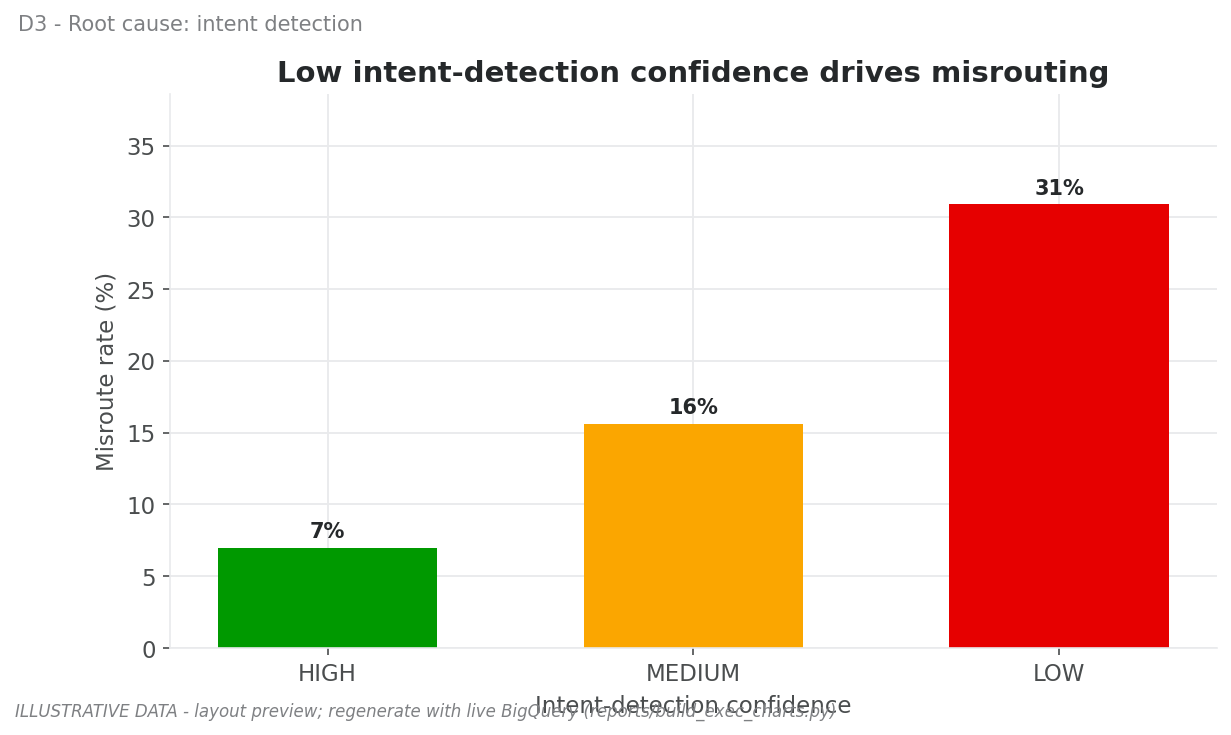
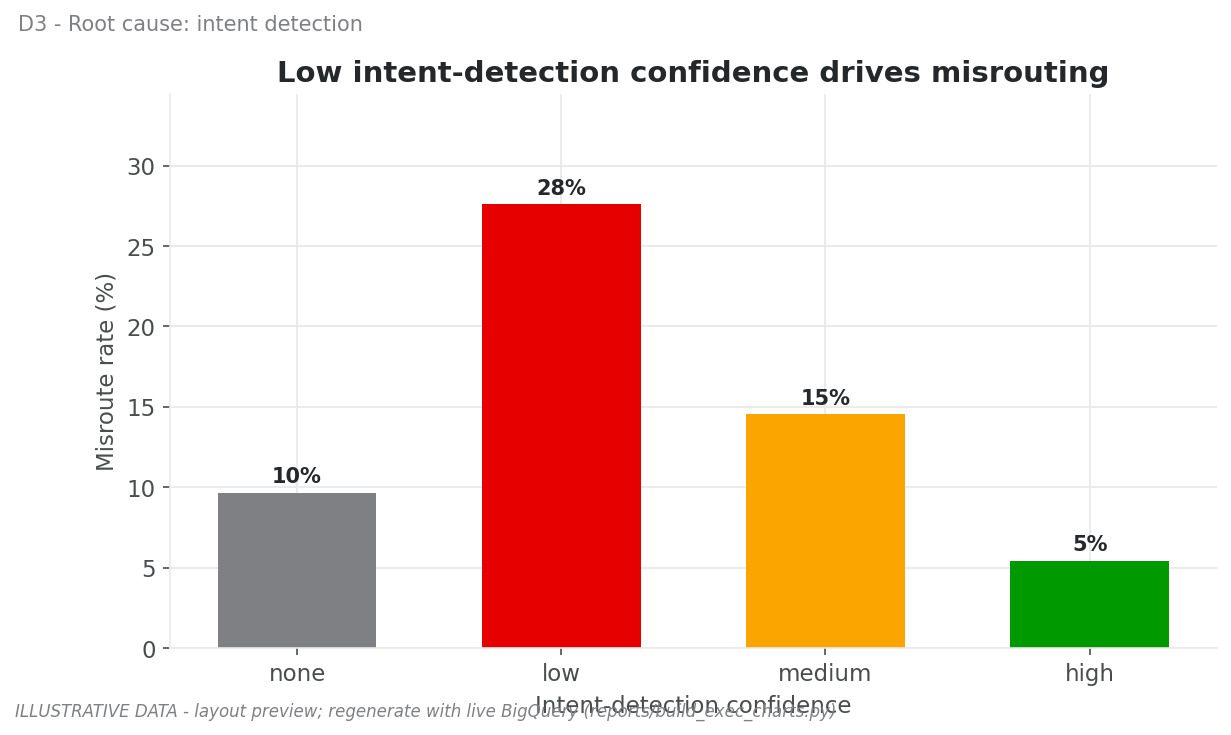
Validate against profiling: numeric CONFIDENCE_LEVEL -> confidence_band; regen standalone, notebooks, charts

diff --git a/reports/build_exec_charts.py b/reports/build_exec_charts.py
@@ -78,7 +78,7 @@ def load_from_bigquery():
     ds      = os.environ.get("TOBI_ANALYSIS_DS", "tobi_routing_analysis")
     client = bigquery.Client(project=project)
     sql = f"""
-    SELECT START_MOMENT, CHANNEL, CONFIDENCE_LEVEL, technical_topic_type,
+    SELECT START_MOMENT, CHANNEL, CONFIDENCE_LEVEL, confidence_band, technical_topic_type,
            is_technical_topic, routed_queue_category, routed_queue_subtype,
            final_transfer_target, was_transferred, n_transfers, duration_seconds,
            is_hard_misroute, is_soft_misroute, is_correct_technical_route,
@@ -98,10 +98,11 @@ def load_synthetic(n=120_000, seed=7):
         rng.choice(["connection_problem", "device_damage_repair", "feature_question"],
                    n, p=[.46, .21, .33]),
         "non_technical_or_unknown")
-    conf = rng.choice(["HIGH", "MEDIUM", "LOW"], n, p=[.55, .30, .15])
+    conf = rng.choice(["none", "low", "medium", "high"], n, p=[.20, .13, .22, .45])
 
     # misroute probability rises as confidence falls and varies by channel
-    base = np.select([conf == "HIGH", conf == "MEDIUM", conf == "LOW"], [.08, .20, .42])
+    base = np.select([conf == "high", conf == "medium", conf == "low", conf == "none"],
+                     [.06, .18, .34, .12])
     ch_adj = np.select([channels == "IVR", channels == "WhatsApp"], [.10, .05], 0.0)
     p_mis = np.clip(base + ch_adj, 0, .9)
     transferred = is_tech & (rng.random(n) < 0.72)
@@ -141,7 +142,10 @@ def load_synthetic(n=120_000, seed=7):
     df = pd.DataFrame({
         "START_MOMENT": start,
         "CHANNEL": channels,
-        "CONFIDENCE_LEVEL": conf,
+        "CONFIDENCE_LEVEL": np.where(conf == "none", "0",
+                              np.where(conf == "low", "0.30",
+                              np.where(conf == "medium", "0.65", "0.92"))),
+        "confidence_band": conf,
         "technical_topic_type": topic,
         "is_technical_topic": is_tech,
         "routed_queue_category": qcat,
@@ -247,15 +251,15 @@ def chart_impact_time(df, synthetic):
 
 def chart_root_cause_confidence(df, synthetic):
     tech = df[df.is_technical_topic]
-    order = ["HIGH", "MEDIUM", "LOW"]
-    g = (tech.groupby("CONFIDENCE_LEVEL")
+    order = ["none", "low", "medium", "high"]
+    g = (tech.groupby("confidence_band")
              .agg(sessions=("is_technical_topic", "size"),
                   mis=("is_hard_misroute", "sum")))
     g = g.reindex([o for o in order if o in g.index])
     g["pct"] = 100 * g.mis / g.sessions
 
     fig, ax = plt.subplots(figsize=(9, 4.8))
-    bars = ax.bar(g.index, g.pct, color=[GREEN, AMBER, RED][:len(g)], width=.6)
+    bars = ax.bar(g.index, g.pct, color=[GREY, RED, AMBER, GREEN][:len(g)], width=.6)
     bar_labels(ax, bars, fmt="{:.0f}%")
     ax.set_ylabel("Misroute rate (%)")
     ax.set_xlabel("Intent-detection confidence")
@@ -452,9 +456,9 @@ def dashboard(df, synthetic):
 
     # Panel 3: confidence root cause
     ax3 = fig.add_subplot(gs[1, 3])
-    order = [o for o in ["HIGH", "MEDIUM", "LOW"] if o in tech.CONFIDENCE_LEVEL.unique()]
-    gc = tech.groupby("CONFIDENCE_LEVEL").is_hard_misroute.mean().reindex(order)*100
-    b3 = ax3.bar(gc.index, gc.values, color=[GREEN, AMBER, RED][:len(gc)], width=.7)
+    order = [o for o in ["none", "low", "medium", "high"] if o in tech.confidence_band.unique()]
+    gc = tech.groupby("confidence_band").is_hard_misroute.mean().reindex(order)*100
+    b3 = ax3.bar(gc.index, gc.values, color=[GREY, RED, AMBER, GREEN][:len(gc)], width=.7)
     bar_labels(ax3, b3, fmt="{:.0f}%", pad=2)
     ax3.set_title("Misroute % by confidence")
     ax3.set_ylim(0, gc.max()*1.3)
